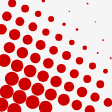
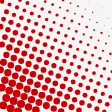
Refine preset detail and glass dropdown motion

diff --git a/test/studio-panel.test.js b/test/studio-panel.test.js
@@ -2,6 +2,7 @@ import test, { beforeEach, afterEach } from "node:test";
 import assert from "node:assert/strict";
 import { Window } from "happy-dom";
 import { mountStudioPanel } from "../src/studio-panel.js";
+import { mountPresetMenuMotion } from "../src/preset-menu-motion.js";
 
 let browser, state, studio, unmount, settingsChanged, savedName;
 const defaults = {
@@ -127,7 +128,7 @@ test('visual preset options preserve selection and distinguish built-in samples 
   let options = popup.querySelectorAll('.studio-preset-option');
   assert.equal(options.length, 3);
   assert.equal(options[0].querySelector('img').alt, '');
-  assert.equal(options[0].querySelector('.studio-preset-description').textContent, 'Bold, coarse dots');
+  assert.equal(options[0].querySelector('.studio-preset-description').textContent, 'Crisp, balanced poster');
   assert.equal(options[2].querySelector('img'), null);
   assert.equal(options[2].querySelector('.studio-preset-description').textContent, 'Your saved preset');
   options[1].click();
@@ -140,6 +141,95 @@ test('visual preset options preserve selection and distinguish built-in samples 
   key(document.activeElement, 'End');
   key(document.activeElement, 'Enter');
   assert.equal(state.selectedPreset, 'My print');
+  assert.equal(document.activeElement, trigger);
+});
+
+test('preset menu fades out without keeping interactive options and clears an interrupted exit', async (t) => {
+  const prototype = browser.HTMLElement.prototype;
+  const original = prototype.animate;
+  const animations = [];
+  prototype.animate = function(frames, options) {
+    let finish;
+    const animation = { node: this, frames, options, cancelled: false,
+      finished: new Promise((resolve) => { finish = resolve; }),
+      cancel() { this.cancelled = true; }, finish: () => finish() };
+    animations.push(animation);
+    return animation;
+  };
+  t.after(() => { if (original) prototype.animate = original; else delete prototype.animate; });
+  const trigger = document.querySelector('.dialkit-select-trigger');
+  trigger.click();
+  await new Promise((resolve) => browser.requestAnimationFrame(resolve));
+  assert.equal(animations[0].options.duration, 300);
+  assert.equal(trigger.getAttribute('aria-expanded'), 'true');
+  document.querySelector('.studio-preset-option').click();
+  await new Promise((resolve) => browser.requestAnimationFrame(resolve));
+  const exit = document.querySelector('.studio-preset-menu-exit');
+  assert.ok(exit);
+  assert.equal(exit.inert, true);
+  assert.equal(exit.getAttribute('aria-hidden'), 'true');
+  assert.equal(exit.hasAttribute('role'), false);
+  assert.equal(exit.querySelectorAll('[id]').length, 0);
+  assert.equal(animations[1].options.duration, 240);
+  assert.equal(trigger.getAttribute('aria-expanded'), 'false');
+  trigger.click();
+  assert.equal(document.querySelector('.studio-preset-menu-exit'), null);
+  await new Promise((resolve) => browser.requestAnimationFrame(resolve));
+  assert.equal(animations[1].cancelled, true);
+  assert.ok(document.querySelector('.studio-preset-menu'));
+  animations[1].finish();
+  await Promise.resolve();
+  assert.ok(document.querySelector('.studio-preset-menu'), 'old exit cannot remove a reopened menu');
+  key(document.activeElement, 'Escape');
+  await new Promise((resolve) => browser.requestAnimationFrame(resolve));
+  assert.equal(document.querySelector('.studio-preset-menu'), null);
+  assert.equal(document.activeElement, trigger);
+  animations.at(-1).finish();
+  await Promise.resolve();
+  assert.equal(document.querySelector('.studio-preset-menu-exit'), null);
+});
+
+test('preset exit waits beyond a microtask checkpoint for the menu to be removed', async (t) => {
+  const prototype = browser.HTMLElement.prototype;
+  const original = prototype.animate;
+  prototype.animate = () => ({ finished: new Promise(() => {}), cancel() {} });
+  const root = document.querySelector('.halftone-dialkit');
+  const host = document.createElement('div');
+  const trigger = document.createElement('button');
+  host.append(trigger);
+  root.append(host);
+  const popup = document.createElement('div');
+  popup.className = 'dialkit-select-dropdown studio-preset-menu';
+  root.append(popup);
+  const motion = mountPresetMenuMotion(host, trigger);
+  t.after(() => {
+    motion.destroy(); host.remove(); popup.remove();
+    if (original) prototype.animate = original; else delete prototype.animate;
+  });
+  motion.open(popup);
+  trigger.click();
+  // Model a native event checkpoint before the library's later close handler.
+  await Promise.resolve();
+  assert.equal(popup.isConnected, true);
+  popup.remove();
+  await new Promise((resolve) => browser.requestAnimationFrame(resolve));
+  assert.ok(document.querySelector('.studio-preset-menu-exit'), 'exit must not be skipped by the earlier checkpoint');
+});
+
+test('reduced motion skips preset entrance and exit animation', async (t) => {
+  const nativeMatchMedia = browser.matchMedia.bind(browser);
+  browser.matchMedia = (query) => query === '(prefers-reduced-motion: reduce)' ? { matches: true } : nativeMatchMedia(query);
+  const prototype = browser.HTMLElement.prototype;
+  const original = prototype.animate;
+  prototype.animate = () => { throw new Error('reduced motion must not animate'); };
+  t.after(() => { if (original) prototype.animate = original; else delete prototype.animate; });
+  const trigger = document.querySelector('.dialkit-select-trigger');
+  trigger.click();
+  await new Promise((resolve) => browser.requestAnimationFrame(resolve));
+  key(document.activeElement, 'Escape');
+  await Promise.resolve();
+  assert.equal(document.querySelector('.studio-preset-menu-exit'), null);
+  assert.equal(document.querySelector('.studio-preset-menu'), null);
   assert.equal(document.activeElement, trigger);
 });
 
@@ -441,7 +531,7 @@ test('horizontal touch stays attached through thumb drift and cancellation refin
   assert.deepEqual(calls, [true]);
   pointer('pointermove', 350, 85); // beyond the row, with vertical drift
   await new Promise((resolve) => browser.requestAnimationFrame(resolve));
-  assert.equal(state.settings.cellSize, 20);
+  assert.equal(state.settings.cellSize, 12);
   const count = settingsChanged.length;
   pointer('pointermove', 390, 90);
   await new Promise((resolve) => browser.requestAnimationFrame(resolve));
@@ -451,7 +541,7 @@ test('horizontal touch stays attached through thumb drift and cancellation refin
   assert.deepEqual(calls, [true, false]);
   assert.equal(slider.hasPointerCapture(1), false);
   pointer('pointermove', 20, 20);
-  assert.equal(state.settings.cellSize, 20);
+  assert.equal(state.settings.cellSize, 12);
 });
 
 test('touch updates once per frame and flushes the final value before refinement', async () => {
@@ -466,19 +556,19 @@ test('touch updates once per frame and flushes the final value before refinement
   assert.equal(settingsChanged.length, 0);
   await new Promise((resolve) => browser.requestAnimationFrame(resolve));
   assert.equal(settingsChanged.length, 1);
-  assert.equal(state.settings.cellSize, 14);
+  assert.equal(state.settings.cellSize, 9);
   pointer('pointermove', 240);
   pointer('pointerup', 300);
-  assert.equal(state.settings.cellSize, 20);
-  assert.deepEqual(refinements, [20]);
+  assert.equal(state.settings.cellSize, 12);
+  assert.deepEqual(refinements, [12]);
   await new Promise((resolve) => browser.requestAnimationFrame(resolve));
   assert.equal(settingsChanged.length, 2);
 
   pointer('pointerdown', 300);
   pointer('pointermove', 160);
   pointer('pointercancel', 160);
-  assert.equal(state.settings.cellSize, 12);
-  assert.deepEqual(refinements, [20, 12]);
+  assert.equal(state.settings.cellSize, 8);
+  assert.deepEqual(refinements, [12, 8]);
   await new Promise((resolve) => browser.requestAnimationFrame(resolve));
   assert.equal(settingsChanged.length, 3);
 });

diff --git a/src/preset-menu-motion.js b/src/preset-menu-motion.js
@@ -1,0 +1,85 @@
+// DialKit owns focus and selection. A non-interactive visual copy lets its
+// immediate close remain accessible while the surface finishes fading away.
+export function mountPresetMenuMotion(host, trigger) {
+  let current, entering, exiting, exitAnimation, pending, destroyed = false;
+  let closeFrame = 0;
+  const canAnimate = (node) => typeof node?.animate === 'function'
+    && !window.matchMedia('(prefers-reduced-motion: reduce)').matches;
+  const appearance = (node) => {
+    const style = getComputedStyle(node);
+    return { opacity: style.opacity || '1', transform: style.transform || 'none' };
+  };
+  const clearExit = () => {
+    exitAnimation?.cancel();
+    exiting?.remove();
+    exitAnimation = exiting = undefined;
+  };
+  const captureClose = (event) => {
+    const popup = current;
+    if (destroyed || !popup?.isConnected || !canAnimate(popup) || pending === popup) return;
+    const inside = popup.contains(event.target), onTrigger = trigger.contains(event.target);
+    const closes = event.type === 'click' && (onTrigger || event.target.closest('.dialkit-select-option') && inside)
+      || event.type === 'pointerdown' && !inside && !onTrigger
+      || event.type === 'focusin' && !inside && !onTrigger
+      || event.type === 'keydown' && inside && ['Escape', 'Tab', 'Enter', ' '].includes(event.key);
+    if (!closes) return;
+    const from = appearance(popup);
+    const copy = popup.cloneNode(true);
+    const scrollTop = popup.scrollTop;
+    pending = popup;
+    // Native events can checkpoint microtasks between capture and bubble
+    // listeners. Wait for the whole event before checking DialKit's removal.
+    closeFrame = requestAnimationFrame(() => {
+      closeFrame = 0;
+      if (pending === popup) pending = undefined;
+      if (destroyed || !host.isConnected || popup.isConnected || current !== popup) return;
+      current = undefined;
+      entering?.cancel();
+      clearExit();
+      copy.classList.remove('studio-preset-menu');
+      copy.classList.add('studio-preset-menu-exit');
+      copy.removeAttribute('id');
+      copy.removeAttribute('role');
+      copy.setAttribute('aria-hidden', 'true');
+      copy.inert = true;
+      copy.querySelectorAll('[id]').forEach((node) => node.removeAttribute('id'));
+      host.closest('.dialkit-root').append(copy);
+      copy.scrollTop = scrollTop;
+      if (typeof copy.showPopover === 'function') {
+        copy.setAttribute('popover', 'manual');
+        copy.showPopover();
+      }
+      exiting = copy;
+      const animation = copy.animate([from, { opacity: 0, transform: 'translateY(-6px)' }], {
+        duration: 240, easing: 'cubic-bezier(0.25, 0.1, 0.25, 1)', fill: 'forwards'
+      });
+      exitAnimation = animation;
+      animation.finished.then(() => { if (exiting === copy) clearExit(); }, () => {});
+    });
+  };
+  for (const type of ['click', 'pointerdown', 'focusin', 'keydown']) document.addEventListener(type, captureClose, true);
+  return {
+    open(popup) {
+      if (current === popup) return;
+      cancelAnimationFrame(closeFrame);
+      closeFrame = 0;
+      pending = undefined;
+      const from = exiting ? appearance(exiting) : { opacity: 0, transform: 'translateY(-6px)' };
+      clearExit();
+      entering?.cancel();
+      current = popup;
+      if (!canAnimate(popup)) return;
+      entering = popup.animate([from, { opacity: 1, transform: 'none' }], {
+        duration: 300, easing: 'cubic-bezier(0.25, 0.1, 0.25, 1)'
+      });
+      entering.finished.catch(() => {});
+    },
+    destroy() {
+      destroyed = true;
+      cancelAnimationFrame(closeFrame);
+      entering?.cancel();
+      clearExit();
+      for (const type of ['click', 'pointerdown', 'focusin', 'keydown']) document.removeEventListener(type, captureClose, true);
+    }
+  };
+}

diff --git a/src/preset-select.js b/src/preset-select.js
@@ -1,7 +1,8 @@
 import { mountSelectControl } from 'dialkit/vanilla';
+import { mountPresetMenuMotion } from './preset-menu-motion.js';
 
 const samples = {
-  red: { description: 'Bold, coarse dots', image: new URL('./preset-previews/red.png', import.meta.url).href },
+  red: { description: 'Crisp, balanced poster', image: new URL('./preset-previews/red.png', import.meta.url).href },
   orange: { description: 'Warm, textured print', image: new URL('./preset-previews/orange.png', import.meta.url).href },
   neon: { description: 'Neon negative with glow', image: new URL('./preset-previews/neon.png', import.meta.url).href },
   blue: { description: 'Fine, precise grid', image: new URL('./preset-previews/blue.png', import.meta.url).href },
@@ -14,9 +15,11 @@ export function mountPresetSelect(host, initial) {
   let props = initial;
   const control = mountSelectControl(host, props);
   const trigger = host.querySelector('.dialkit-select-trigger');
+  trigger.classList.add('studio-preset-trigger');
+  const motion = mountPresetMenuMotion(host, trigger);
   const decorate = () => {
     if (trigger.getAttribute('aria-expanded') !== 'true') return;
-    const popup = host.closest('.dialkit-root')?.querySelector('.dialkit-select-dropdown');
+    const popup = host.closest('.dialkit-root')?.querySelector('.dialkit-select-dropdown:not(.studio-preset-menu-exit)');
     if (!popup) return;
     popup.classList.add('studio-preset-menu');
     popup.querySelectorAll('.dialkit-select-option').forEach((button, index) => {
@@ -44,12 +47,14 @@ export function mountPresetSelect(host, initial) {
         button.prepend(image);
       }
     });
+    motion.open(popup);
   };
   trigger.addEventListener('click', decorate);
   trigger.addEventListener('keydown', decorate);
   return {
     update(next) { props = next; control.update(next); decorate(); },
     destroy() {
+      motion.destroy();
       trigger.removeEventListener('click', decorate);
       trigger.removeEventListener('keydown', decorate);
       control.destroy();

diff --git a/src/dial-panel.css b/src/dial-panel.css
@@ -464,10 +464,62 @@
   min-width: 0;
 }
 
-.halftone-dialkit .studio-preset-menu {
+.halftone-dialkit .studio-preset-menu,
+.halftone-dialkit .studio-preset-menu-exit {
+  --preset-glass: rgb(32 32 30 / 32%);
+  --dial-surface-hover: rgb(255 255 255 / 6%);
+  --dial-surface-active: rgb(255 255 255 / 7%);
+  background: var(--preset-glass);
+  backdrop-filter: blur(16px) saturate(145%);
+  -webkit-backdrop-filter: blur(16px) saturate(145%);
+  box-shadow: inset 0 0 0 1px rgb(255 255 255 / 7%),
+    0 12px 32px rgb(0 0 0 / 20%), 0 3px 8px rgb(0 0 0 / 12%);
+  border-radius: 12px;
   overflow-y: auto;
   overscroll-behavior: contain;
   touch-action: pan-y;
+}
+
+html.light .studio-preset-menu,
+html.light .studio-preset-menu-exit {
+  --preset-glass: rgb(255 255 252 / 42%);
+  --dial-surface-hover: rgb(0 0 0 / 4%);
+  --dial-surface-active: rgb(0 0 0 / 7%);
+}
+
+.studio-preset-menu-exit {
+  pointer-events: none !important;
+}
+
+.studio-preset-trigger .dialkit-select-chevron {
+  transform-origin: center;
+  transition: transform 300ms cubic-bezier(0.25, 0.1, 0.25, 1);
+}
+
+.studio-preset-trigger[aria-expanded="true"] .dialkit-select-chevron {
+  transform: rotate(180deg);
+}
+
+.studio-preset-trigger[aria-expanded="false"] .dialkit-select-chevron {
+  transition-duration: 240ms;
+}
+
+@media (prefers-reduced-motion: reduce) {
+  .studio-preset-trigger .dialkit-select-chevron { transition: none; }
+}
+
+@supports not ((backdrop-filter: blur(1px)) or (-webkit-backdrop-filter: blur(1px))) {
+  .halftone-dialkit .studio-preset-menu,
+  .halftone-dialkit .studio-preset-menu-exit { background: var(--ref-dropdown); }
+}
+
+@media (prefers-reduced-transparency: reduce) {
+  .halftone-dialkit .studio-preset-menu,
+  .halftone-dialkit .studio-preset-menu-exit {
+    background: var(--ref-dropdown);
+    backdrop-filter: none;
+    -webkit-backdrop-filter: none;
+  }
 }
 
 .halftone-dialkit .studio-preset-option {

diff --git a/script.js b/script.js
@@ -211,15 +211,15 @@ const controls = {
 };
 
 const builtInPresets = {
-  // Coarse, clean dots and strong tonal separation for graphic posters.
+  // Clean, regular dots and balanced tonal separation for graphic posters.
   red: {
     quality: "ultra",
-    cellSize: 14,
-    contrast: 2.1,
-    gamma: 0.72,
-    minDot: 8,
+    cellSize: 8,
+    contrast: 1.55,
+    gamma: 0.95,
+    minDot: 4,
     screenAngle: 22,
-    toneCurve: 0.6,
+    toneCurve: 0.95,
     microDot: 0,
     jitter: 0,
     seed: 11,
@@ -498,6 +498,8 @@ function sanitizePreset(rawPreset) {
     return null;
   }
 
+  // Keep older saved presets within the current control range on load.
+  sanitized.cellSize = Math.min(Number(controls.cellSize.max), Math.max(Number(controls.cellSize.min), sanitized.cellSize));
   return sanitized;
 }
 

diff --git a/index.html b/index.html
@@ -84,9 +84,9 @@
           <label class="field">
             <div class="field-title">
               <span>Cell Size</span>
-              <output id="cellSizeOut" for="cellSize">8 px</output>
+              <output id="cellSizeOut" for="cellSize">8</output>
             </div>
-            <input id="cellSize" type="range" min="3" max="20" value="8" />
+            <input id="cellSize" type="range" min="3" max="12" value="8" />
           </label>
           <label class="field">
             <div class="field-title">

diff --git a/src/studio-panel.js b/src/studio-panel.js
@@ -285,7 +285,7 @@ export function mountStudioPanel(studio) {
     });
   }
   const layout = mountStudioFolder(folders, "Layout").body;
-  slider(layout, "cellSize", "Cell size", 3, 20, 1);
+  slider(layout, "cellSize", "Cell size", 3, 12, 1);
   slider(layout, "screenAngle", "Screen angle", -75, 75, 1, "°");
   const tone = mountStudioFolder(folders, "Tone").body;
   slider(tone, "contrast", "Contrast", .5, 2.5, .05);
